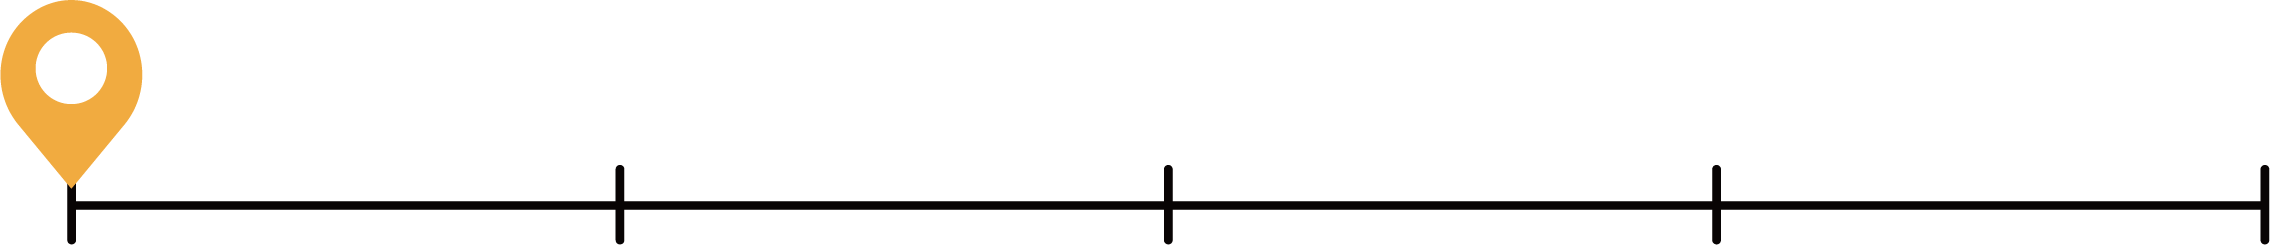
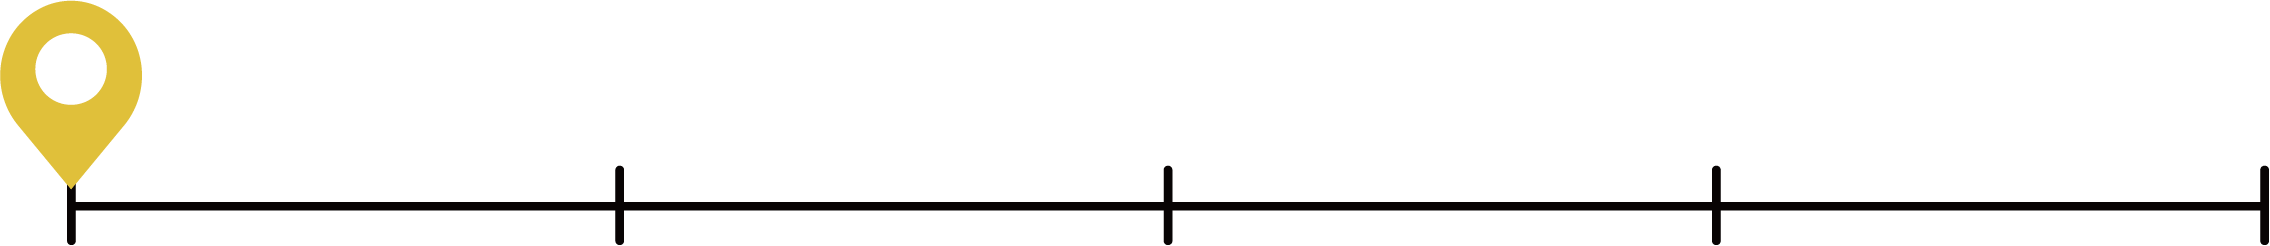
Add files via upload

Changed region(s): [[0.0308, 0.8286, 1.0, 0.8571]]

diff --git a/style.css b/style.css
@@ -150,7 +150,7 @@ header a {
 }
 
 .under {
-  background: linear-gradient(transparent 50%, #fbb03b 50%);
+  background: linear-gradient(transparent 50%, #e9c634 50%);
 }
 
 .skill-content table {
@@ -189,7 +189,7 @@ header a {
 .career h3 {
   font-size: 30px;
   font-family: "Times New Roman";
-  color: #fbb03b;
+  color: #e9c634;
   margin-bottom: 50px;
 }
 
@@ -244,7 +244,7 @@ header a {
 .work-content h2 {
   font-size: 30px;
   font-family: "Times New Roman";
-  color: #fbb03b;
+  color: #e9c634;
   margin-bottom: 50px;
 }
 
@@ -290,7 +290,7 @@ header a {
 
 .kikuno-content a {
   text-decoration: none;
-  color: #fbb03b;
+  color: #e9c634;
   font-size: 20px;
   font-family: "ヒラギノ明朝 Pro";
 }
@@ -304,6 +304,11 @@ header a {
 
 .kikuno-content-img-wrap img {
   width: 100%;
+}
+
+.kikuno-content-img-wrap img :hover {
+  width: 100%;
+  cursor: url(img/click.png), auto;
 }
 
 .kikuno-content2-img-wrap {
@@ -416,7 +421,7 @@ header a {
 }
 
 .slick-dots .slick-active button {
-  background: #fbb03b; /*ドットボタンの現在地表示の色*/
+  background: #e9c634; /*ドットボタンの現在地表示の色*/
 }
 
 .kikuno-content-video-wrap {
@@ -505,4 +510,47 @@ footer {
 footer a {
   text-decoration: none;
   color: #3c393e;
+}
+
+.button {
+  max-width: 150px;
+  margin: 0 auto;
+  margin-bottom: 100px;
+}
+a.btn_02 {
+  display: flex;
+  justify-content: center;
+  align-items: center;
+  background: #fff;
+  border: 1px solid #e9c634;
+  box-sizing: border-box;
+  width: 100%;
+  height: 50px;
+  padding: 0 6% 0 12%;
+  color: #e9c634;
+  font-size: 16px;
+  text-align: left;
+  text-decoration: none;
+  position: relative;
+  transition-duration: 0.2s;
+}
+a.btn_02:hover {
+  background: #e9c634;
+  color: #fff;
+}
+a.btn_02:before {
+  content: "";
+  display: inline-block;
+  width: 0;
+  height: 0;
+  border-style: solid;
+  border-width: 7px 0 7px 8px;
+  border-color: transparent transparent transparent #e9c634;
+  position: absolute;
+  top: 50%;
+  left: 6%;
+  margin-top: -7px;
+}
+a.btn_02:hover:before {
+  border-color: transparent transparent transparent #fff;
 }

diff --git a/Dinner.html b/Dinner.html
@@ -36,7 +36,7 @@
             <h1>『Dinner』</h1>
             <div class="kikuno-content">
                 <!-- <a href="https://youtu.be/6Xw4Kk1_WnU">- Dinnerをみる -</a> -->
-                <video src="video/Dinner.mp4" controls></video>
+                <video src="video/Dinner.mp4" autoplay controls></video>
                 <div class="kikuno-content-sentence">
                     <h2>
                         作品名：『Dinner』<br>
@@ -55,7 +55,9 @@
                 </div>
             </div>
         </div>
-        <!-- <button onclick="location.href='work.html#VIDEO'">Back</button> -->
+        <div class="button">
+            <a href="work.html#VIDEO" class="btn_02">Back</a>
+        </div>
 
         <footer>
             <div class="footer-title">

diff --git a/zine.html b/zine.html
@@ -75,8 +75,9 @@
                 </div>
             </div>
         </div>
-        <!-- <button onclick="location.href='work.html#DESIGN'">Back</button> -->
-
+        <div class="button">
+            <a href="work.html#DESIGN" class="btn_02">Back</a>
+        </div>
         <footer>
             <div class="footer-title">
                 <h2>Oya Kikuno's <br>PORTFOLIO</h2>

diff --git a/My-Journey.html b/My-Journey.html
@@ -57,7 +57,9 @@
                 </div>
             </div>
         </div>
-        <!-- <button onclick="location.href='work.html#WEBSITE'">Back</button> -->
+        <div class="button">
+            <a href="work.html#WEBSITE" class="btn_02">Back</a>
+        </div>
 
         <footer>
             <div class="footer-title">

diff --git a/Poppin.html b/Poppin.html
@@ -59,7 +59,9 @@
                 </div>
             </div>
         </div>
-        <!-- <button onclick="location.href='work.html#WEBSITE'">Back</button> -->
+        <div class="button">
+            <a href="work.html#WEBSITE" class="btn_02">Back</a>
+        </div>
 
         <footer>
             <div class="footer-title">

diff --git a/LP.html b/LP.html
@@ -55,7 +55,9 @@
                 </div>
             </div>
         </div>
-        <!-- <button onclick="location.href='work.html#DESIGN'">Back</button> -->
+        <div class="button">
+            <a href="work.html#DESIGN" class="btn_02">Back</a>
+        </div>
 
         <footer>
             <div class="footer-title">

diff --git a/cafe.html b/cafe.html
@@ -58,7 +58,9 @@
                 </div>
             </div>
         </div>
-        <!-- <button onclick="location.href='work.html#DESIGN'">Back</button> -->
+        <div class="button">
+            <a href="work.html#DESIGN" class="btn_02">Back</a>
+        </div>
 
         <footer>
             <div class="footer-title">

diff --git a/hoahin.html b/hoahin.html
@@ -64,7 +64,9 @@
                 </div>
             </div>
         </div>
-        <!-- <button onclick="location.href='work.html#VIDEO'">Back</button> -->
+        <div class="button">
+            <a href="work.html#VIDEO" class="btn_02">Back</a>
+        </div>
 
         <footer>
             <div class="footer-title">
